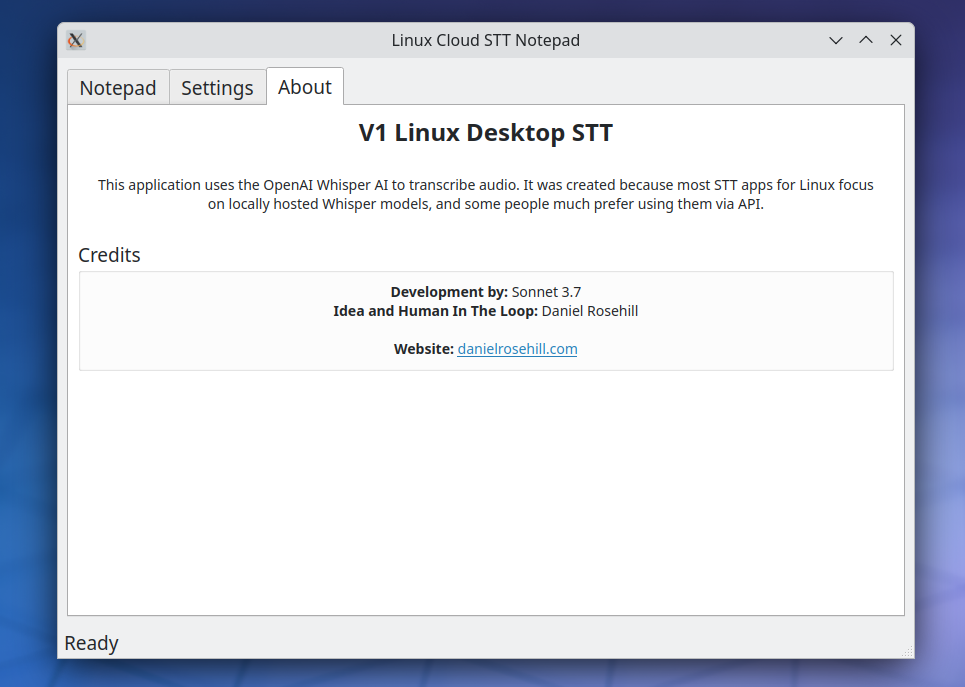
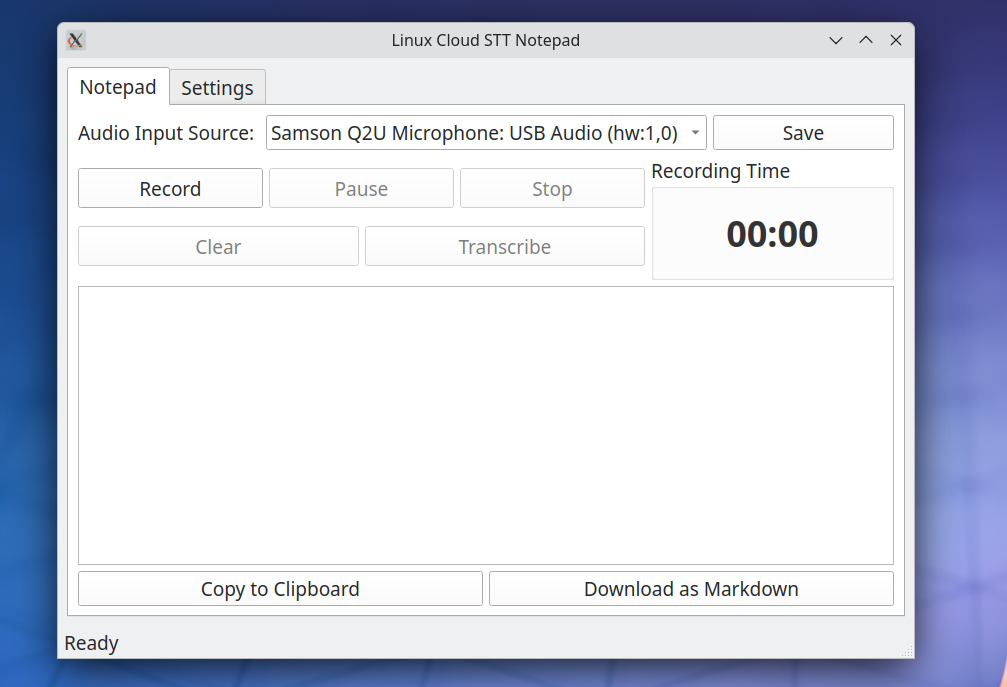
updated

diff --git a/app.py b/app.py
@@ -258,38 +258,60 @@ class MainWindow(QMainWindow):
         
         # First row of buttons
         buttons_row1 = QHBoxLayout()
-        self.record_btn = QPushButton("Record")
+        self.record_btn = QPushButton()
+        self.record_btn.setIcon(QIcon.fromTheme("media-record", QIcon.fromTheme("media-playback-start")))
+        self.record_btn.setToolTip("Record")
         self.record_btn.clicked.connect(self.start_recording)
         self.record_btn.setMinimumHeight(40)
+        self.record_btn.setMinimumWidth(40)
         buttons_row1.addWidget(self.record_btn)
         
-        self.pause_btn = QPushButton("Pause")
+        self.pause_btn = QPushButton()
+        self.pause_btn.setIcon(QIcon.fromTheme("media-playback-pause"))
+        self.pause_btn.setToolTip("Pause")
         self.pause_btn.clicked.connect(self.pause_recording)
         self.pause_btn.setEnabled(False)
         self.pause_btn.setMinimumHeight(40)
+        self.pause_btn.setMinimumWidth(40)
         buttons_row1.addWidget(self.pause_btn)
         
-        self.stop_btn = QPushButton("Stop")
+        self.stop_btn = QPushButton()
+        self.stop_btn.setIcon(QIcon.fromTheme("media-playback-stop"))
+        self.stop_btn.setToolTip("Stop")
         self.stop_btn.clicked.connect(self.stop_recording)
         self.stop_btn.setEnabled(False)
         self.stop_btn.setMinimumHeight(40)
+        self.stop_btn.setMinimumWidth(40)
         buttons_row1.addWidget(self.stop_btn)
         
         recording_layout.addLayout(buttons_row1)
         
         # Second row of buttons
         buttons_row2 = QHBoxLayout()
-        self.clear_btn = QPushButton("Clear")
+        self.clear_btn = QPushButton()
+        self.clear_btn.setIcon(QIcon.fromTheme("edit-clear", QIcon.fromTheme("edit-delete")))
+        self.clear_btn.setToolTip("Clear")
         self.clear_btn.clicked.connect(self.clear_recording)
         self.clear_btn.setEnabled(False)
         self.clear_btn.setMinimumHeight(40)
+        self.clear_btn.setMinimumWidth(40)
         buttons_row2.addWidget(self.clear_btn)
         
+        # Replace the transcribe button with a more descriptive one
         self.transcribe_btn = QPushButton("Transcribe")
+        self.transcribe_btn.setIcon(QIcon.fromTheme("document-edit", QIcon.fromTheme("edit-paste")))
         self.transcribe_btn.clicked.connect(self.transcribe_audio)
         self.transcribe_btn.setEnabled(False)
         self.transcribe_btn.setMinimumHeight(40)
         buttons_row2.addWidget(self.transcribe_btn)
+        
+        # Replace Stop & Transcribe with a clearer button
+        self.stop_and_transcribe_btn = QPushButton("Transcribe Now")
+        self.stop_and_transcribe_btn.setIcon(QIcon.fromTheme("document-save", QIcon.fromTheme("document-send")))
+        self.stop_and_transcribe_btn.clicked.connect(self.stop_and_transcribe)
+        self.stop_and_transcribe_btn.setEnabled(False)
+        self.stop_and_transcribe_btn.setMinimumHeight(40)
+        buttons_row2.addWidget(self.stop_and_transcribe_btn)
         
         recording_layout.addLayout(buttons_row2)
         
@@ -323,10 +345,12 @@ class MainWindow(QMainWindow):
         text_controls_layout = QHBoxLayout()
         
         self.copy_btn = QPushButton("Copy to Clipboard")
+        self.copy_btn.setIcon(QIcon.fromTheme("edit-copy"))
         self.copy_btn.clicked.connect(self.copy_to_clipboard)
         text_controls_layout.addWidget(self.copy_btn)
         
         self.download_btn = QPushButton("Download as Markdown")
+        self.download_btn.setIcon(QIcon.fromTheme("document-save"))
         self.download_btn.clicked.connect(self.download_as_markdown)
         text_controls_layout.addWidget(self.download_btn)
         
@@ -350,6 +374,7 @@ class MainWindow(QMainWindow):
         api_key_layout.addWidget(self.api_key_input, 0, 1)
         
         self.save_api_key_btn = QPushButton("Save API Key")
+        self.save_api_key_btn.setIcon(QIcon.fromTheme("document-save"))
         self.save_api_key_btn.clicked.connect(self.save_api_key)
         api_key_layout.addWidget(self.save_api_key_btn, 0, 2)
         
@@ -365,6 +390,7 @@ class MainWindow(QMainWindow):
         audio_device_settings_layout.addWidget(self.default_audio_device_combo, 0, 1)
         
         self.save_default_audio_btn = QPushButton("Save as Default")
+        self.save_default_audio_btn.setIcon(QIcon.fromTheme("document-save"))
         self.save_default_audio_btn.clicked.connect(self.save_default_audio_device)
         audio_device_settings_layout.addWidget(self.save_default_audio_btn, 0, 2)
         
@@ -565,6 +591,7 @@ class MainWindow(QMainWindow):
                     self.record_btn.setEnabled(False)
                     self.pause_btn.setEnabled(True)
                     self.stop_btn.setEnabled(True)
+                    self.stop_and_transcribe_btn.setEnabled(True)
                     self.clear_btn.setEnabled(False)
                     self.transcribe_btn.setEnabled(False)
                 else:
@@ -580,7 +607,12 @@ class MainWindow(QMainWindow):
         """Pause or resume audio recording"""
         if self.recorder.isRunning():
             self.recorder.pause()
-            self.pause_btn.setText("Resume" if self.recorder.paused else "Pause")
+            if self.recorder.paused:
+                self.pause_btn.setIcon(QIcon.fromTheme("media-playback-start"))
+                self.pause_btn.setToolTip("Resume")
+            else:
+                self.pause_btn.setIcon(QIcon.fromTheme("media-playback-pause"))
+                self.pause_btn.setToolTip("Pause")
     
     def stop_recording(self):
         """Stop audio recording"""
@@ -589,10 +621,29 @@ class MainWindow(QMainWindow):
             self.recorder.wait()
             self.record_btn.setEnabled(True)
             self.pause_btn.setEnabled(False)
-            self.pause_btn.setText("Pause")
+            self.pause_btn.setIcon(QIcon.fromTheme("media-playback-pause"))
+            self.pause_btn.setToolTip("Pause")
             self.stop_btn.setEnabled(False)
+            self.stop_and_transcribe_btn.setEnabled(False)
             self.clear_btn.setEnabled(True)
             self.transcribe_btn.setEnabled(True)
+    
+    def stop_and_transcribe(self):
+        """Stop recording and immediately transcribe the audio"""
+        if self.recorder.isRunning():
+            self.recorder.stop()
+            self.recorder.wait()
+            self.record_btn.setEnabled(True)
+            self.pause_btn.setEnabled(False)
+            self.pause_btn.setIcon(QIcon.fromTheme("media-playback-pause"))
+            self.pause_btn.setToolTip("Pause")
+            self.stop_btn.setEnabled(False)
+            self.stop_and_transcribe_btn.setEnabled(False)
+            self.clear_btn.setEnabled(True)
+            self.transcribe_btn.setEnabled(True)
+            
+            # Immediately start transcription
+            self.transcribe_audio()
     
     def clear_recording(self):
         """Clear the current recording"""

diff --git a/README.md b/README.md
@@ -1,6 +1,6 @@
 # Linux-Cloud-STT-Notepad
 
- ![alt text](screenshots/v1/1.png)
+ ![alt text](screenshots/releases/v2/1.png)
 
 A minimalist notepad application for Linux with speech-to-text capabilities using the OpenAI API.
 
